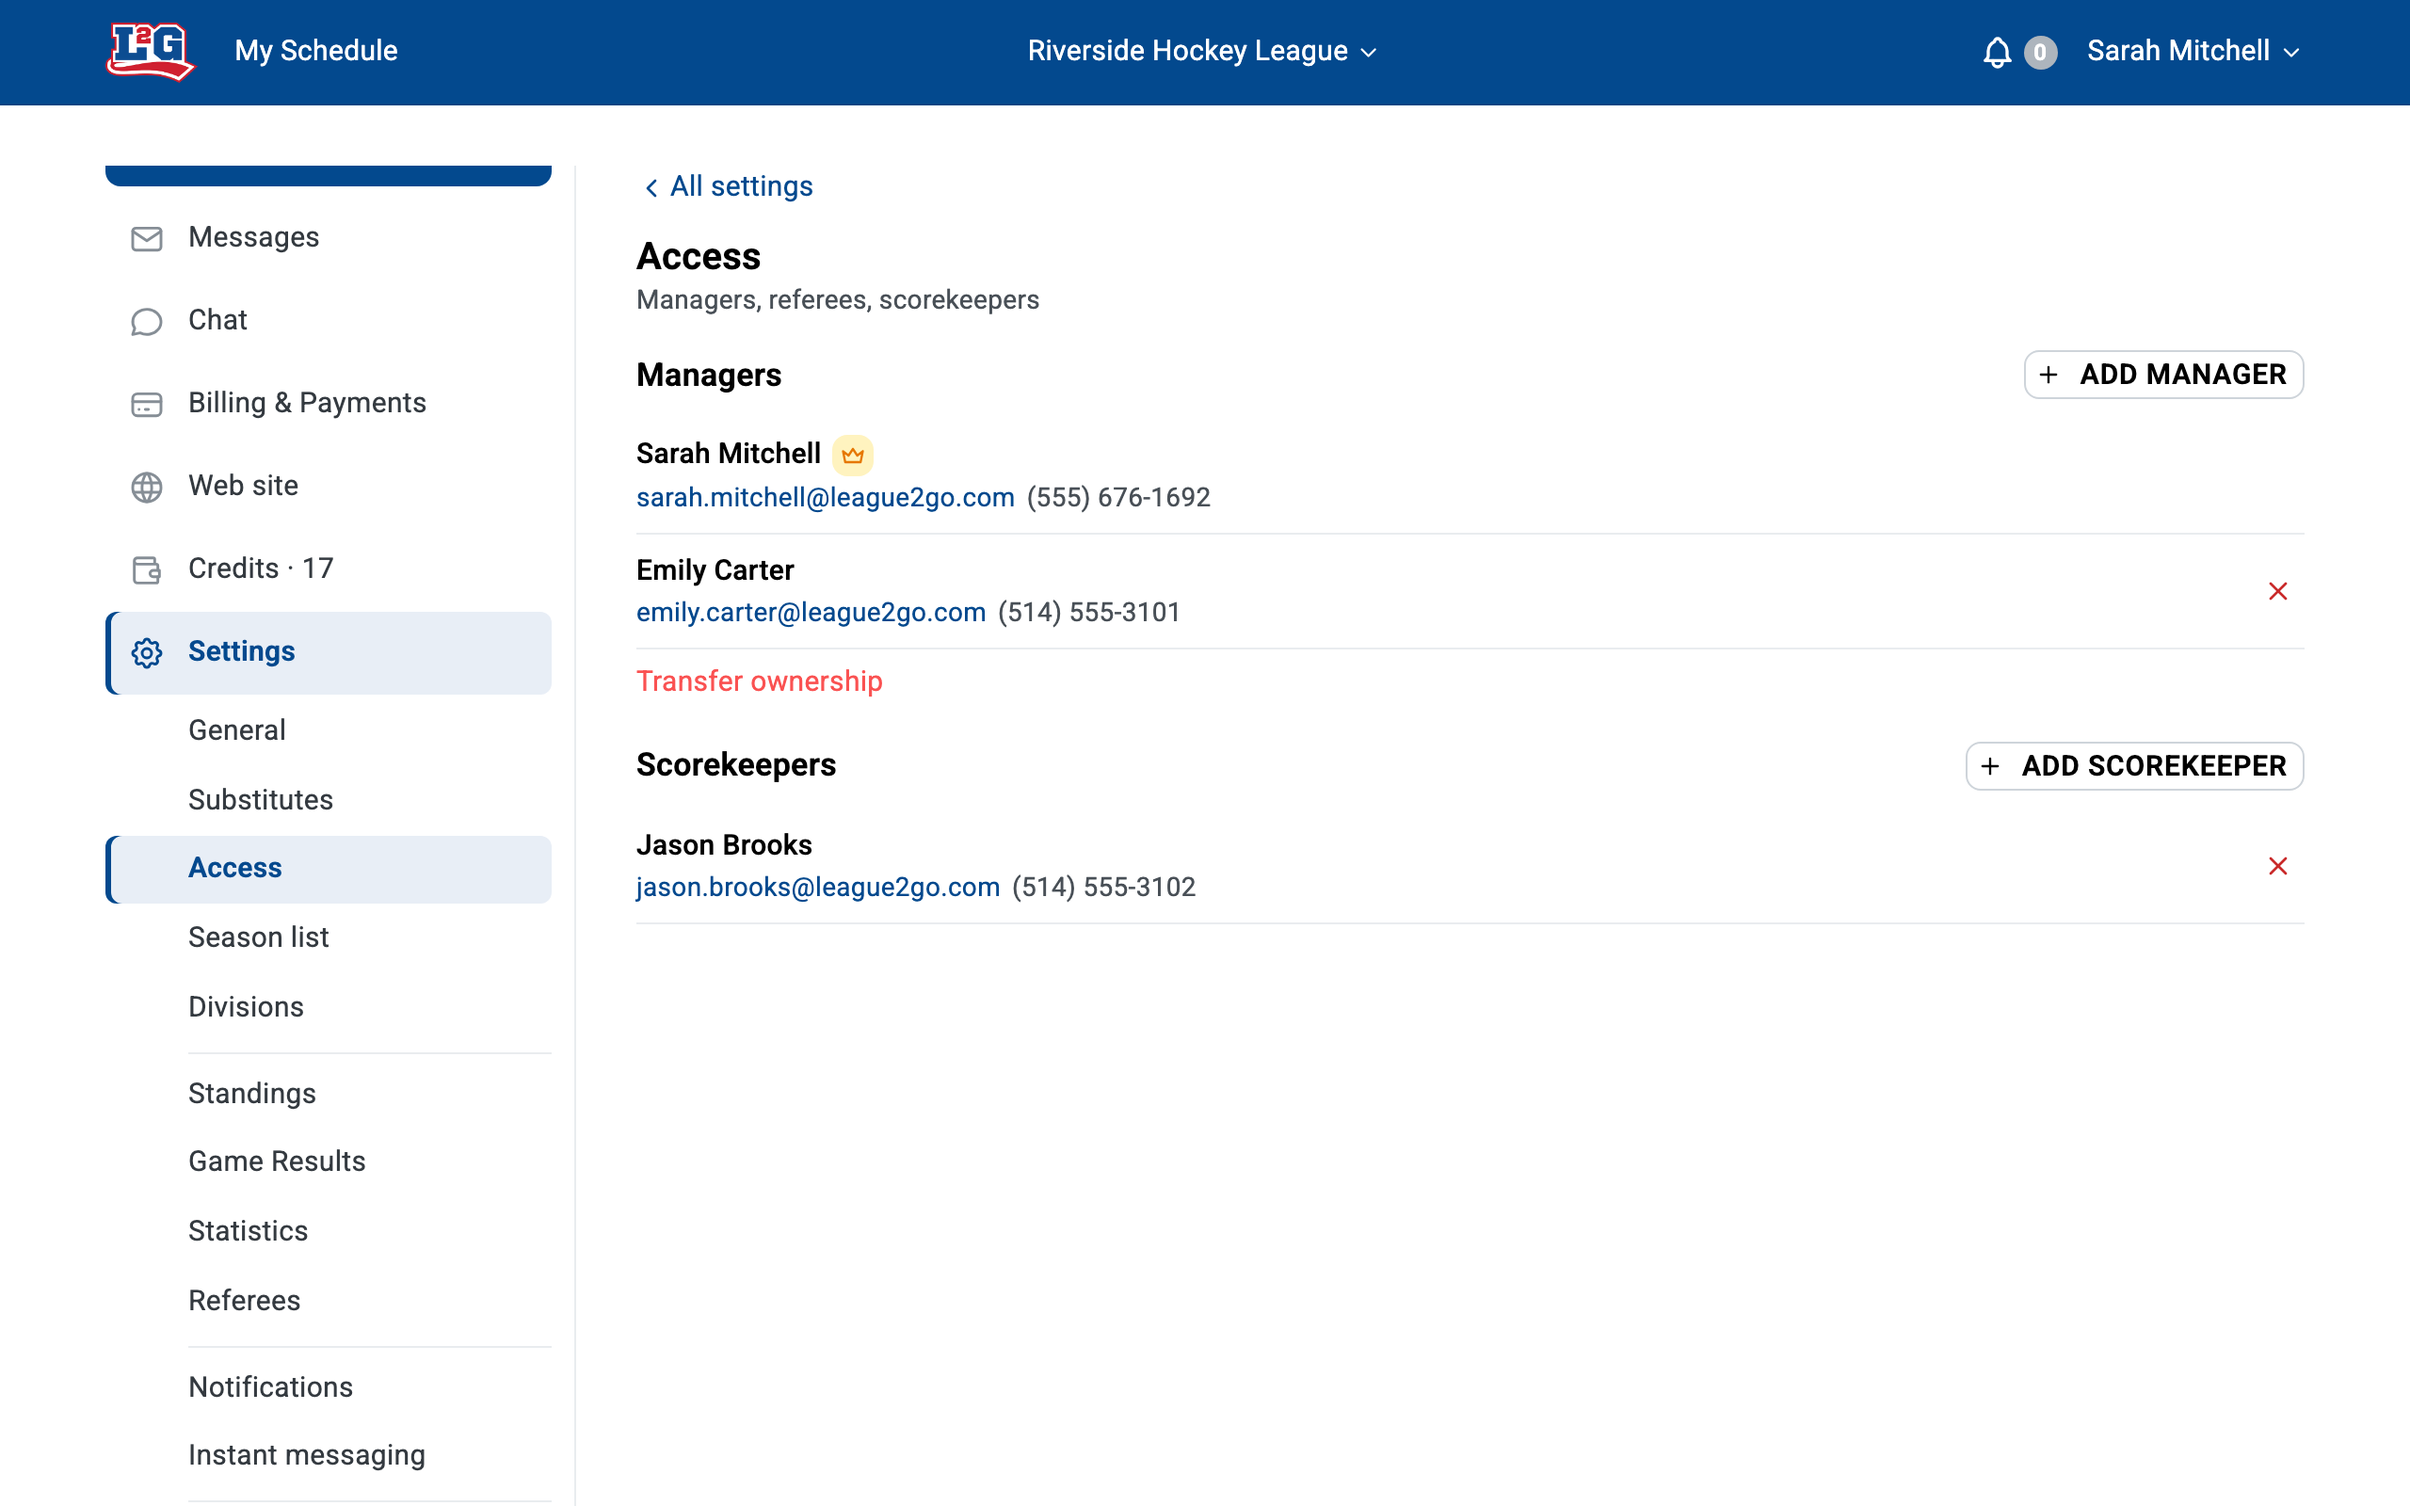
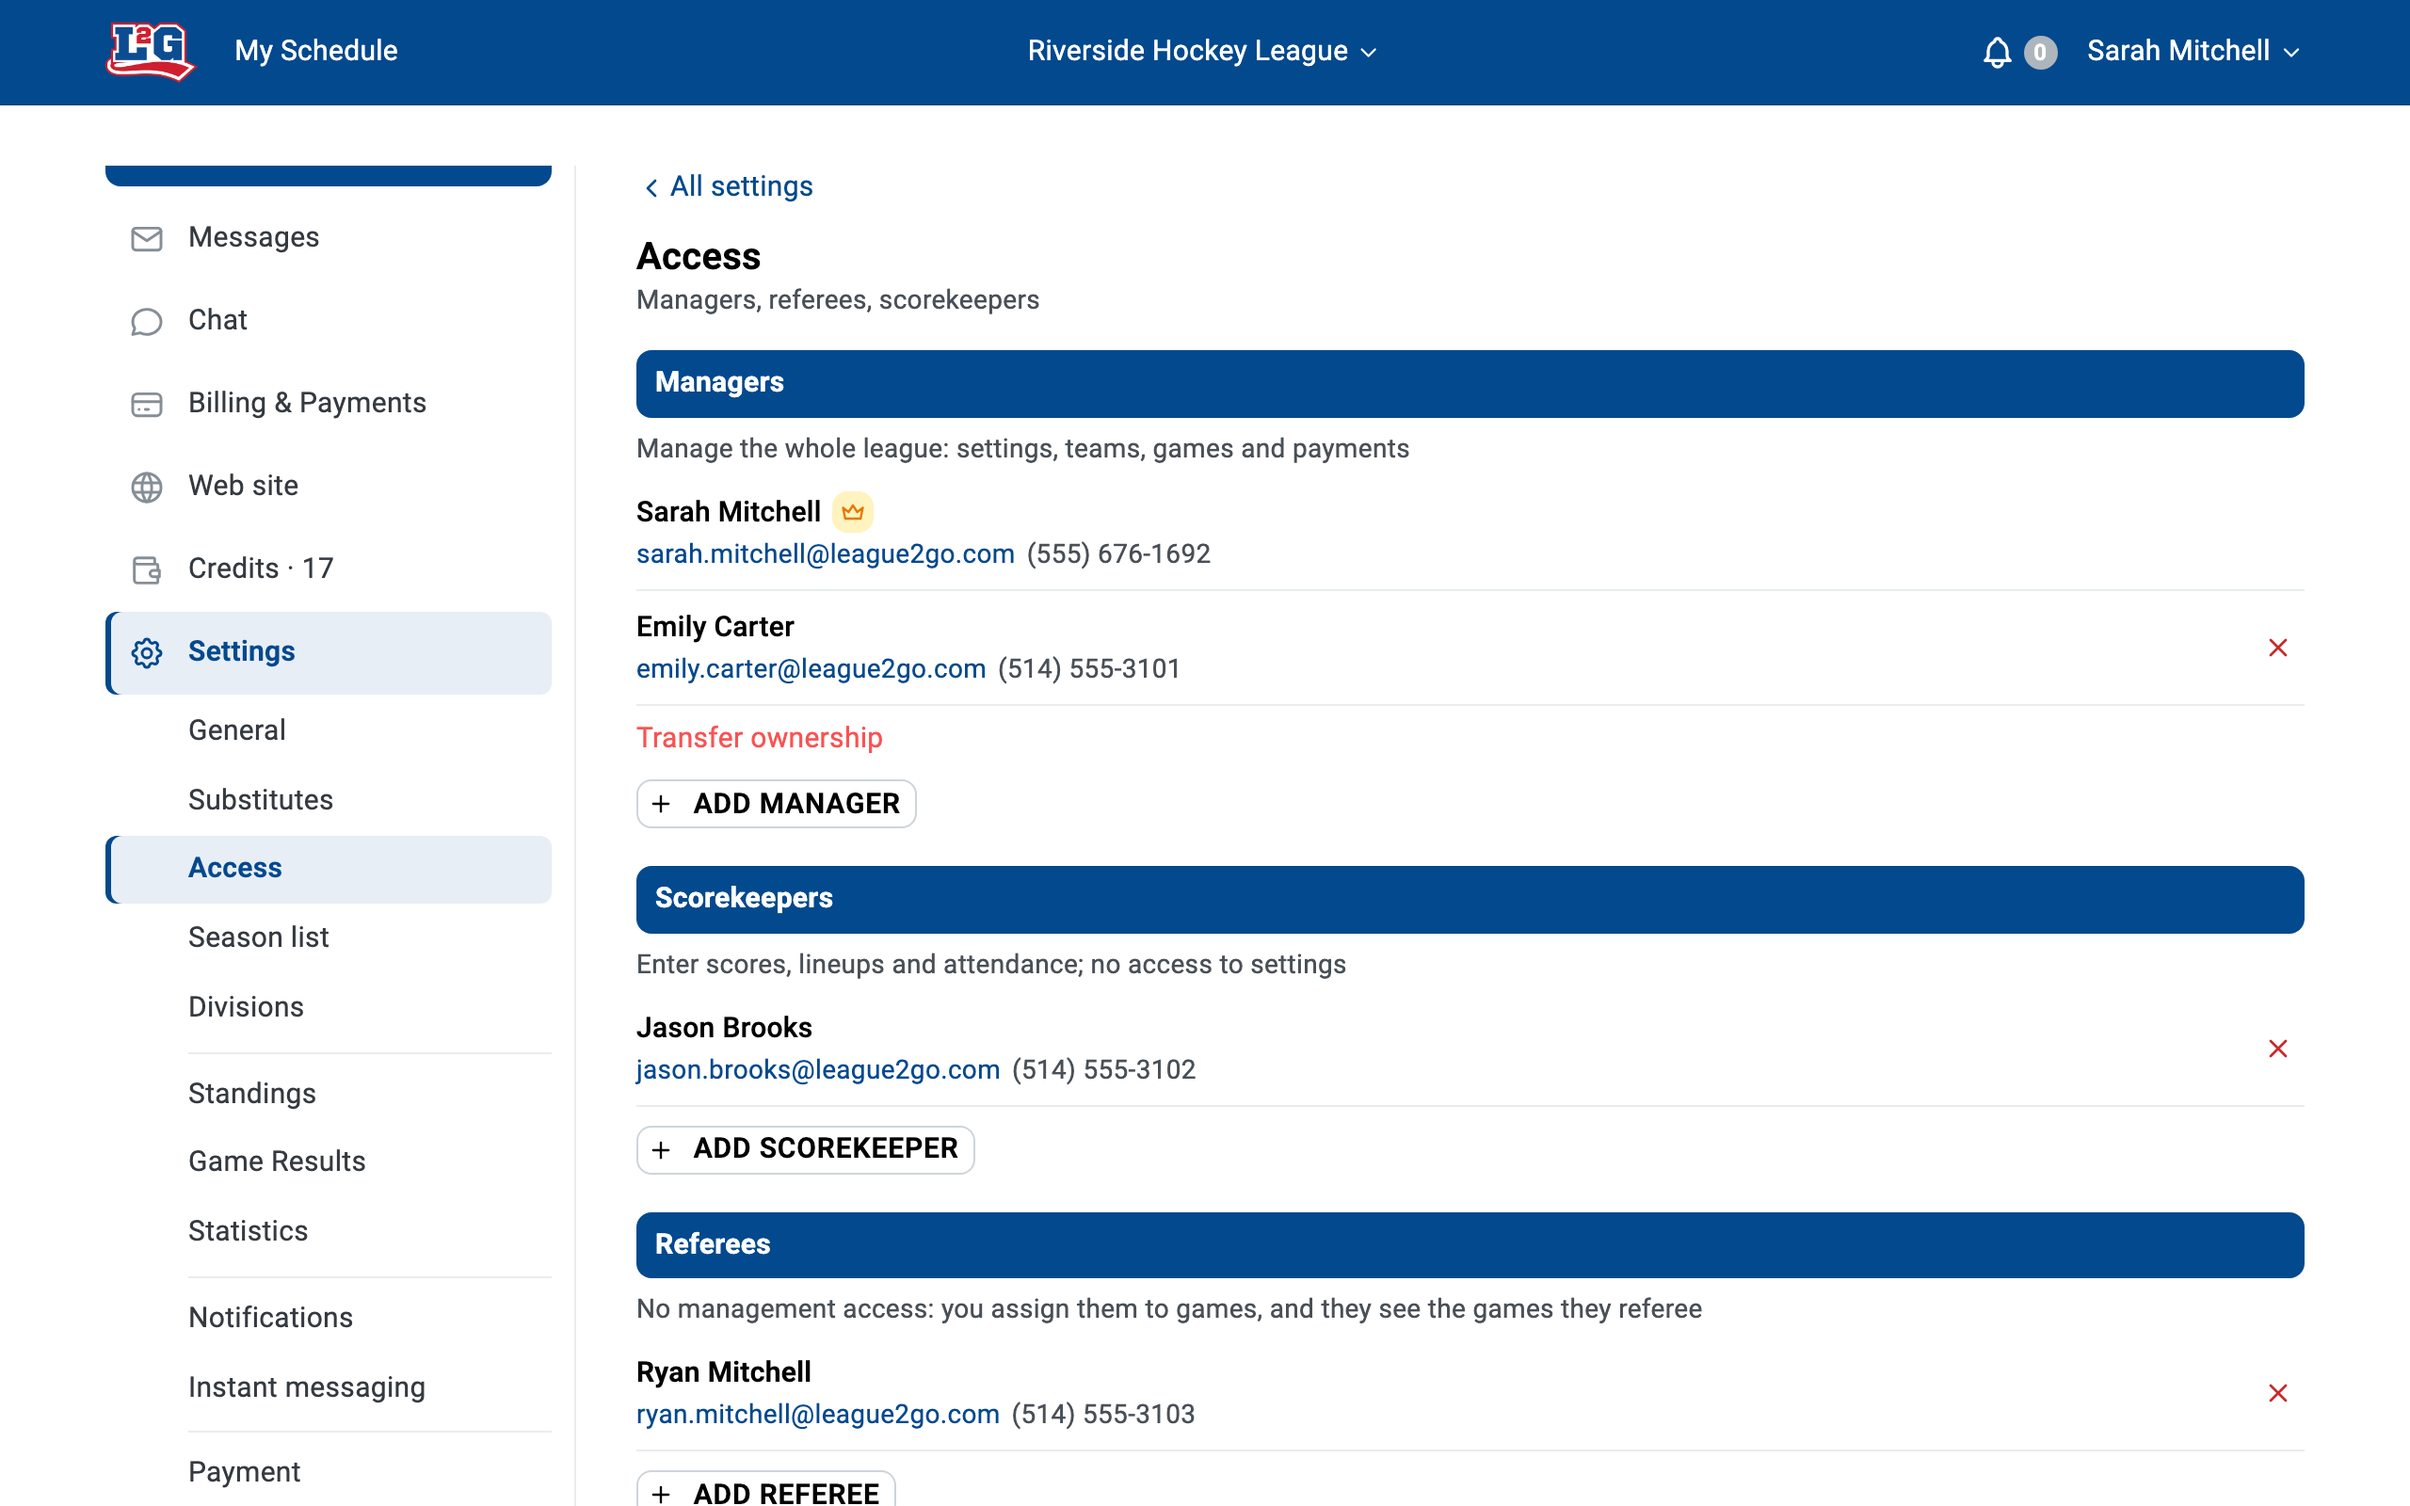
Recapture the Access help screens, which now list referees beside managers and scorekeepers (maligue PR #2287)

diff --git a/_help/fr/roles-et-acces.md b/_help/fr/roles-et-acces.md
@@ -41,7 +41,7 @@ Les marqueurs inscrivent le pointage et mettent à jour vos statistiques, en tem
 
 La personne doit d'abord avoir son propre compte League2GO. Ensuite, dans l'onglet **Accès** des paramètres de votre ligue, ajoutez son compte en tant que gestionnaire ou en tant que marqueur.
 
-{% include image.html src="help/access-tab.fr.png" caption="Paramètres de la ligue > onglet Accès : la liste des gestionnaires (le propriétaire porte la couronne) et la liste des marqueurs, chacune avec son bouton d'ajout." %}
+{% include image.html src="help/access-tab.fr.png" caption="Paramètres de la ligue > onglet Accès : la liste des gestionnaires (le propriétaire porte la couronne), celle des marqueurs et celle des arbitres, chacune avec ce que le rôle permet et son bouton d'ajout." %}
 
 Si la personne n'a pas encore de compte, demandez-lui de s'inscrire d'abord sur [league2go.com](https://league2go.com).
 

diff --git a/_help/en/roles-and-access.md b/_help/en/roles-and-access.md
@@ -41,7 +41,7 @@ Scorekeepers enter goals and update your statistics, live during the game or aft
 
 The person must first have a League2GO account of their own. Then, in the **Access** tab of your league settings, add their account as a manager or as a scorekeeper.
 
-{% include image.html src="help/access-tab.en.png" caption="League settings > Access tab: the managers list (the owner wears the crown) and the scorekeepers list, each with its add button." %}
+{% include image.html src="help/access-tab.en.png" caption="League settings > Access tab: the managers list (the owner wears the crown), the scorekeepers list and the referees list, each with what the role can do and its add button." %}
 
 If the person doesn't have an account yet, ask them to sign up at [league2go.com](https://league2go.com) first.
 
